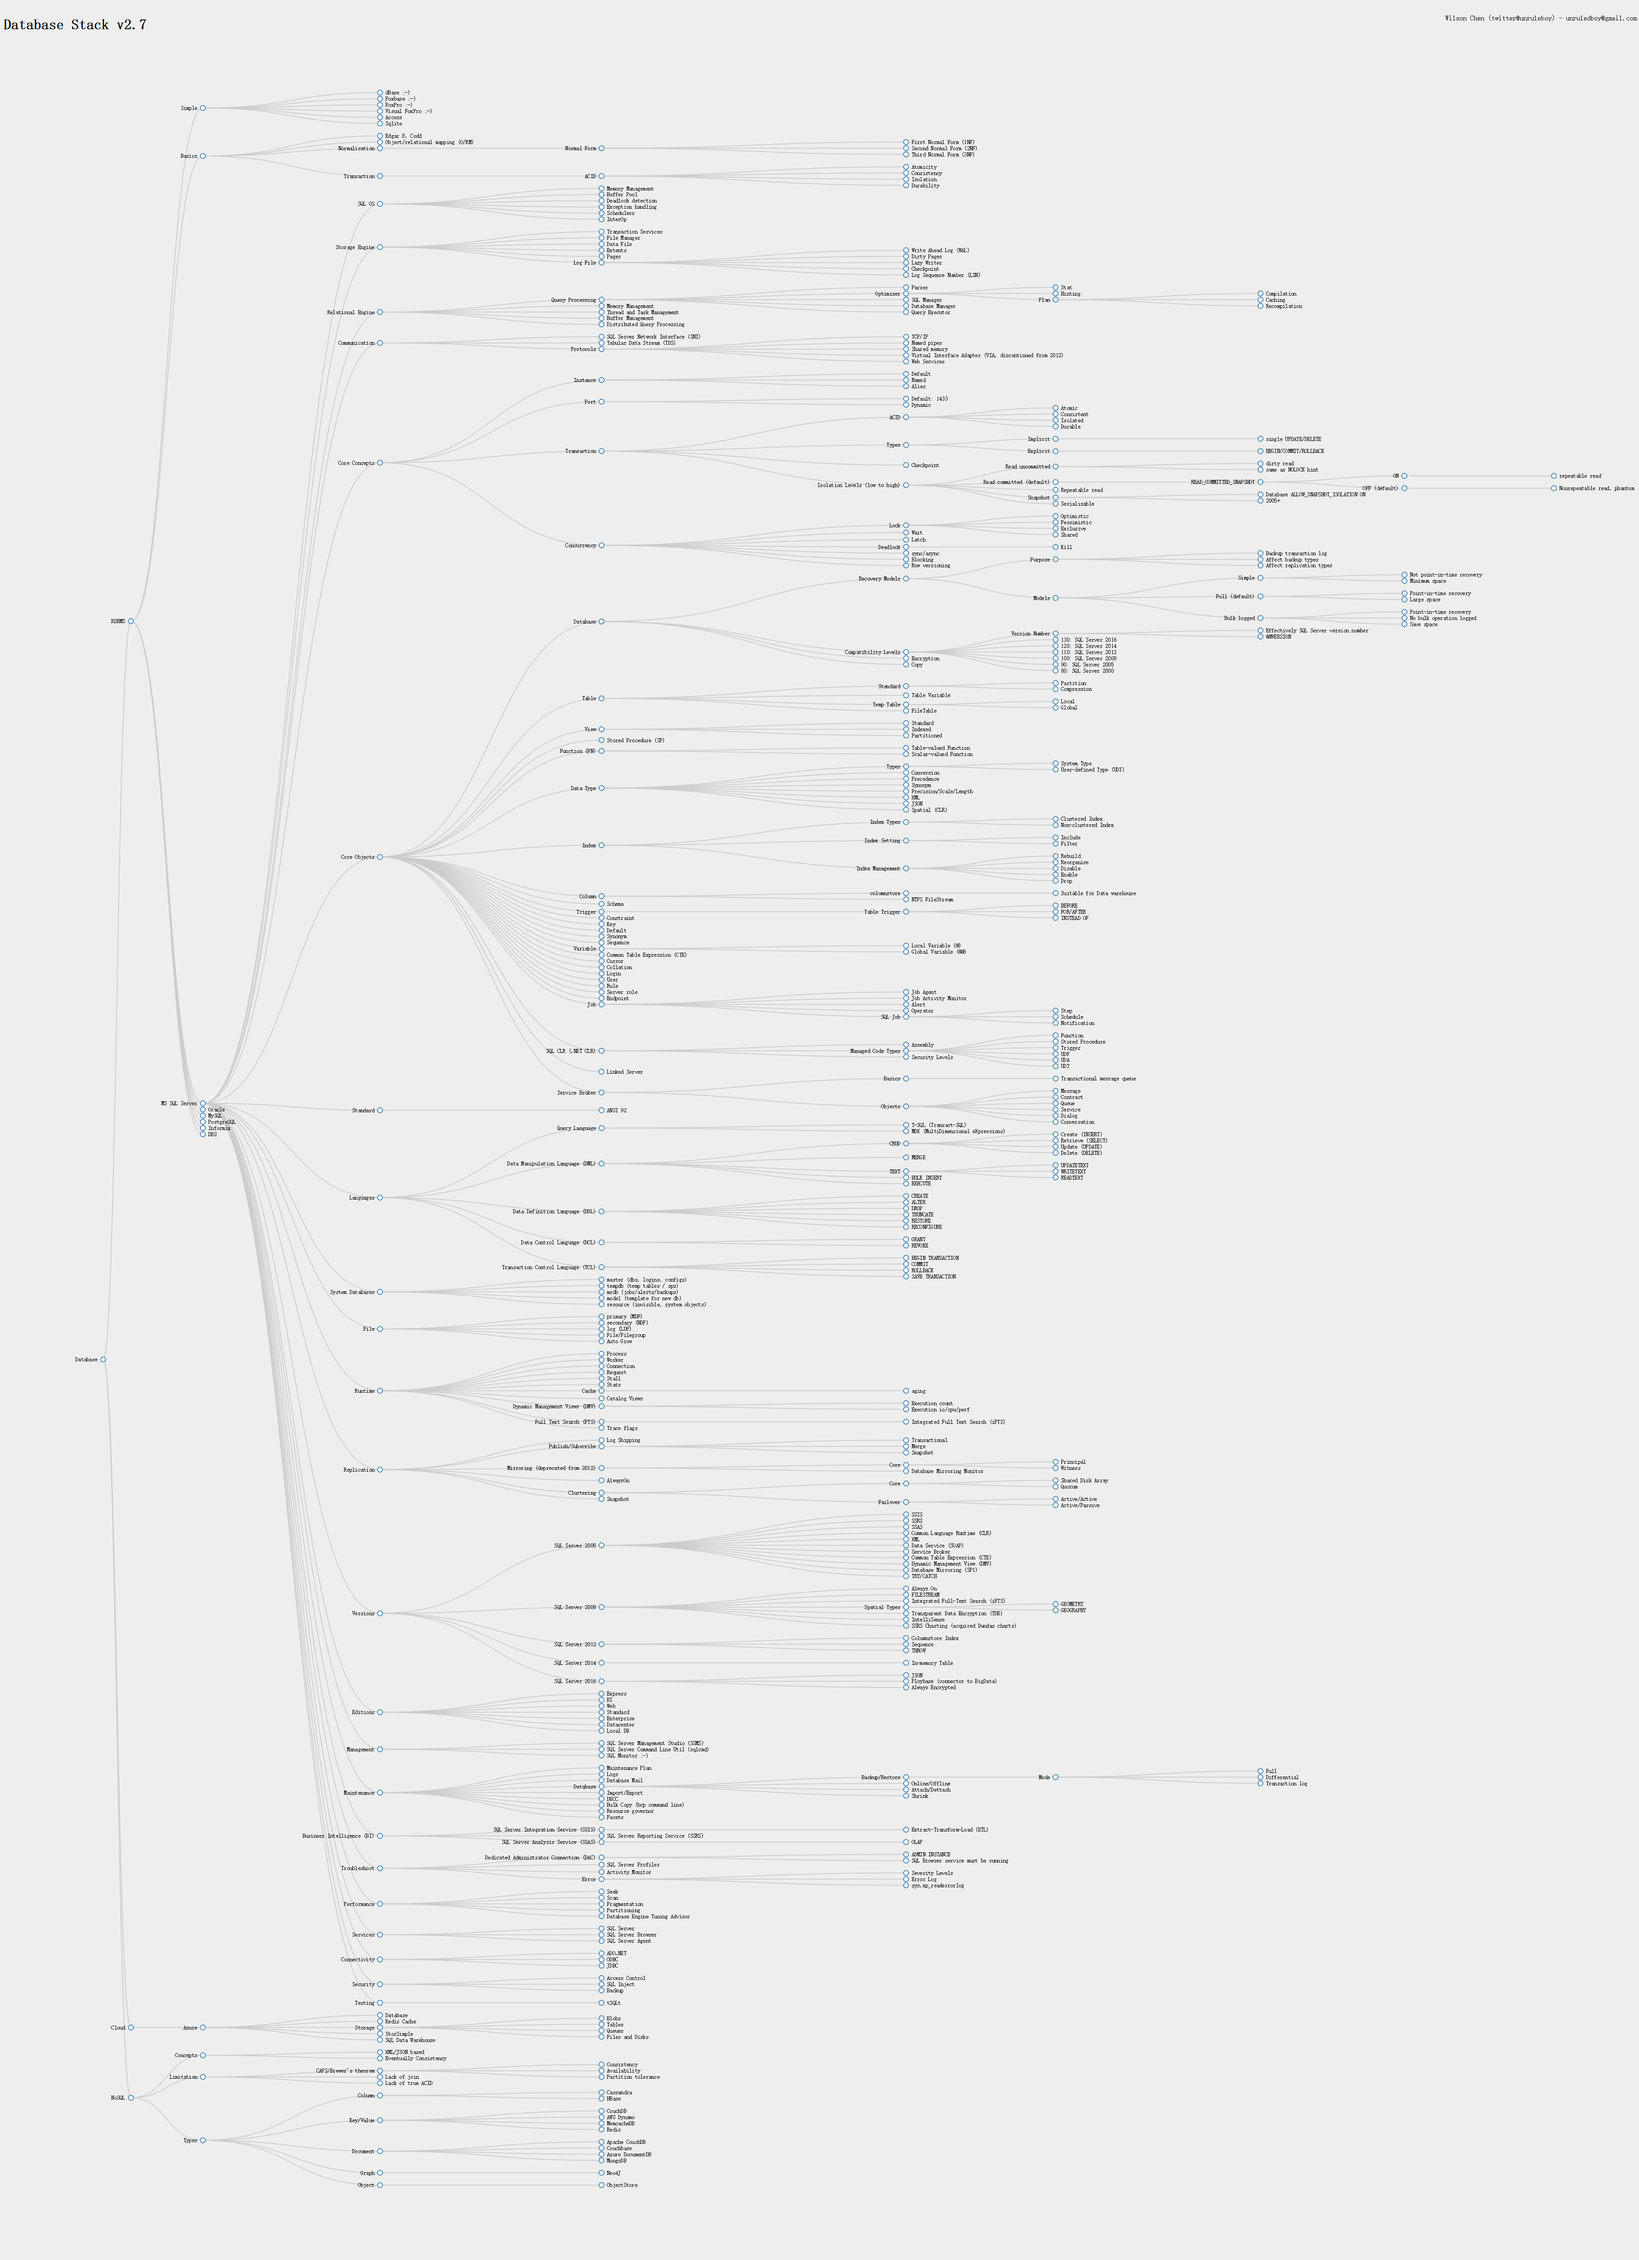
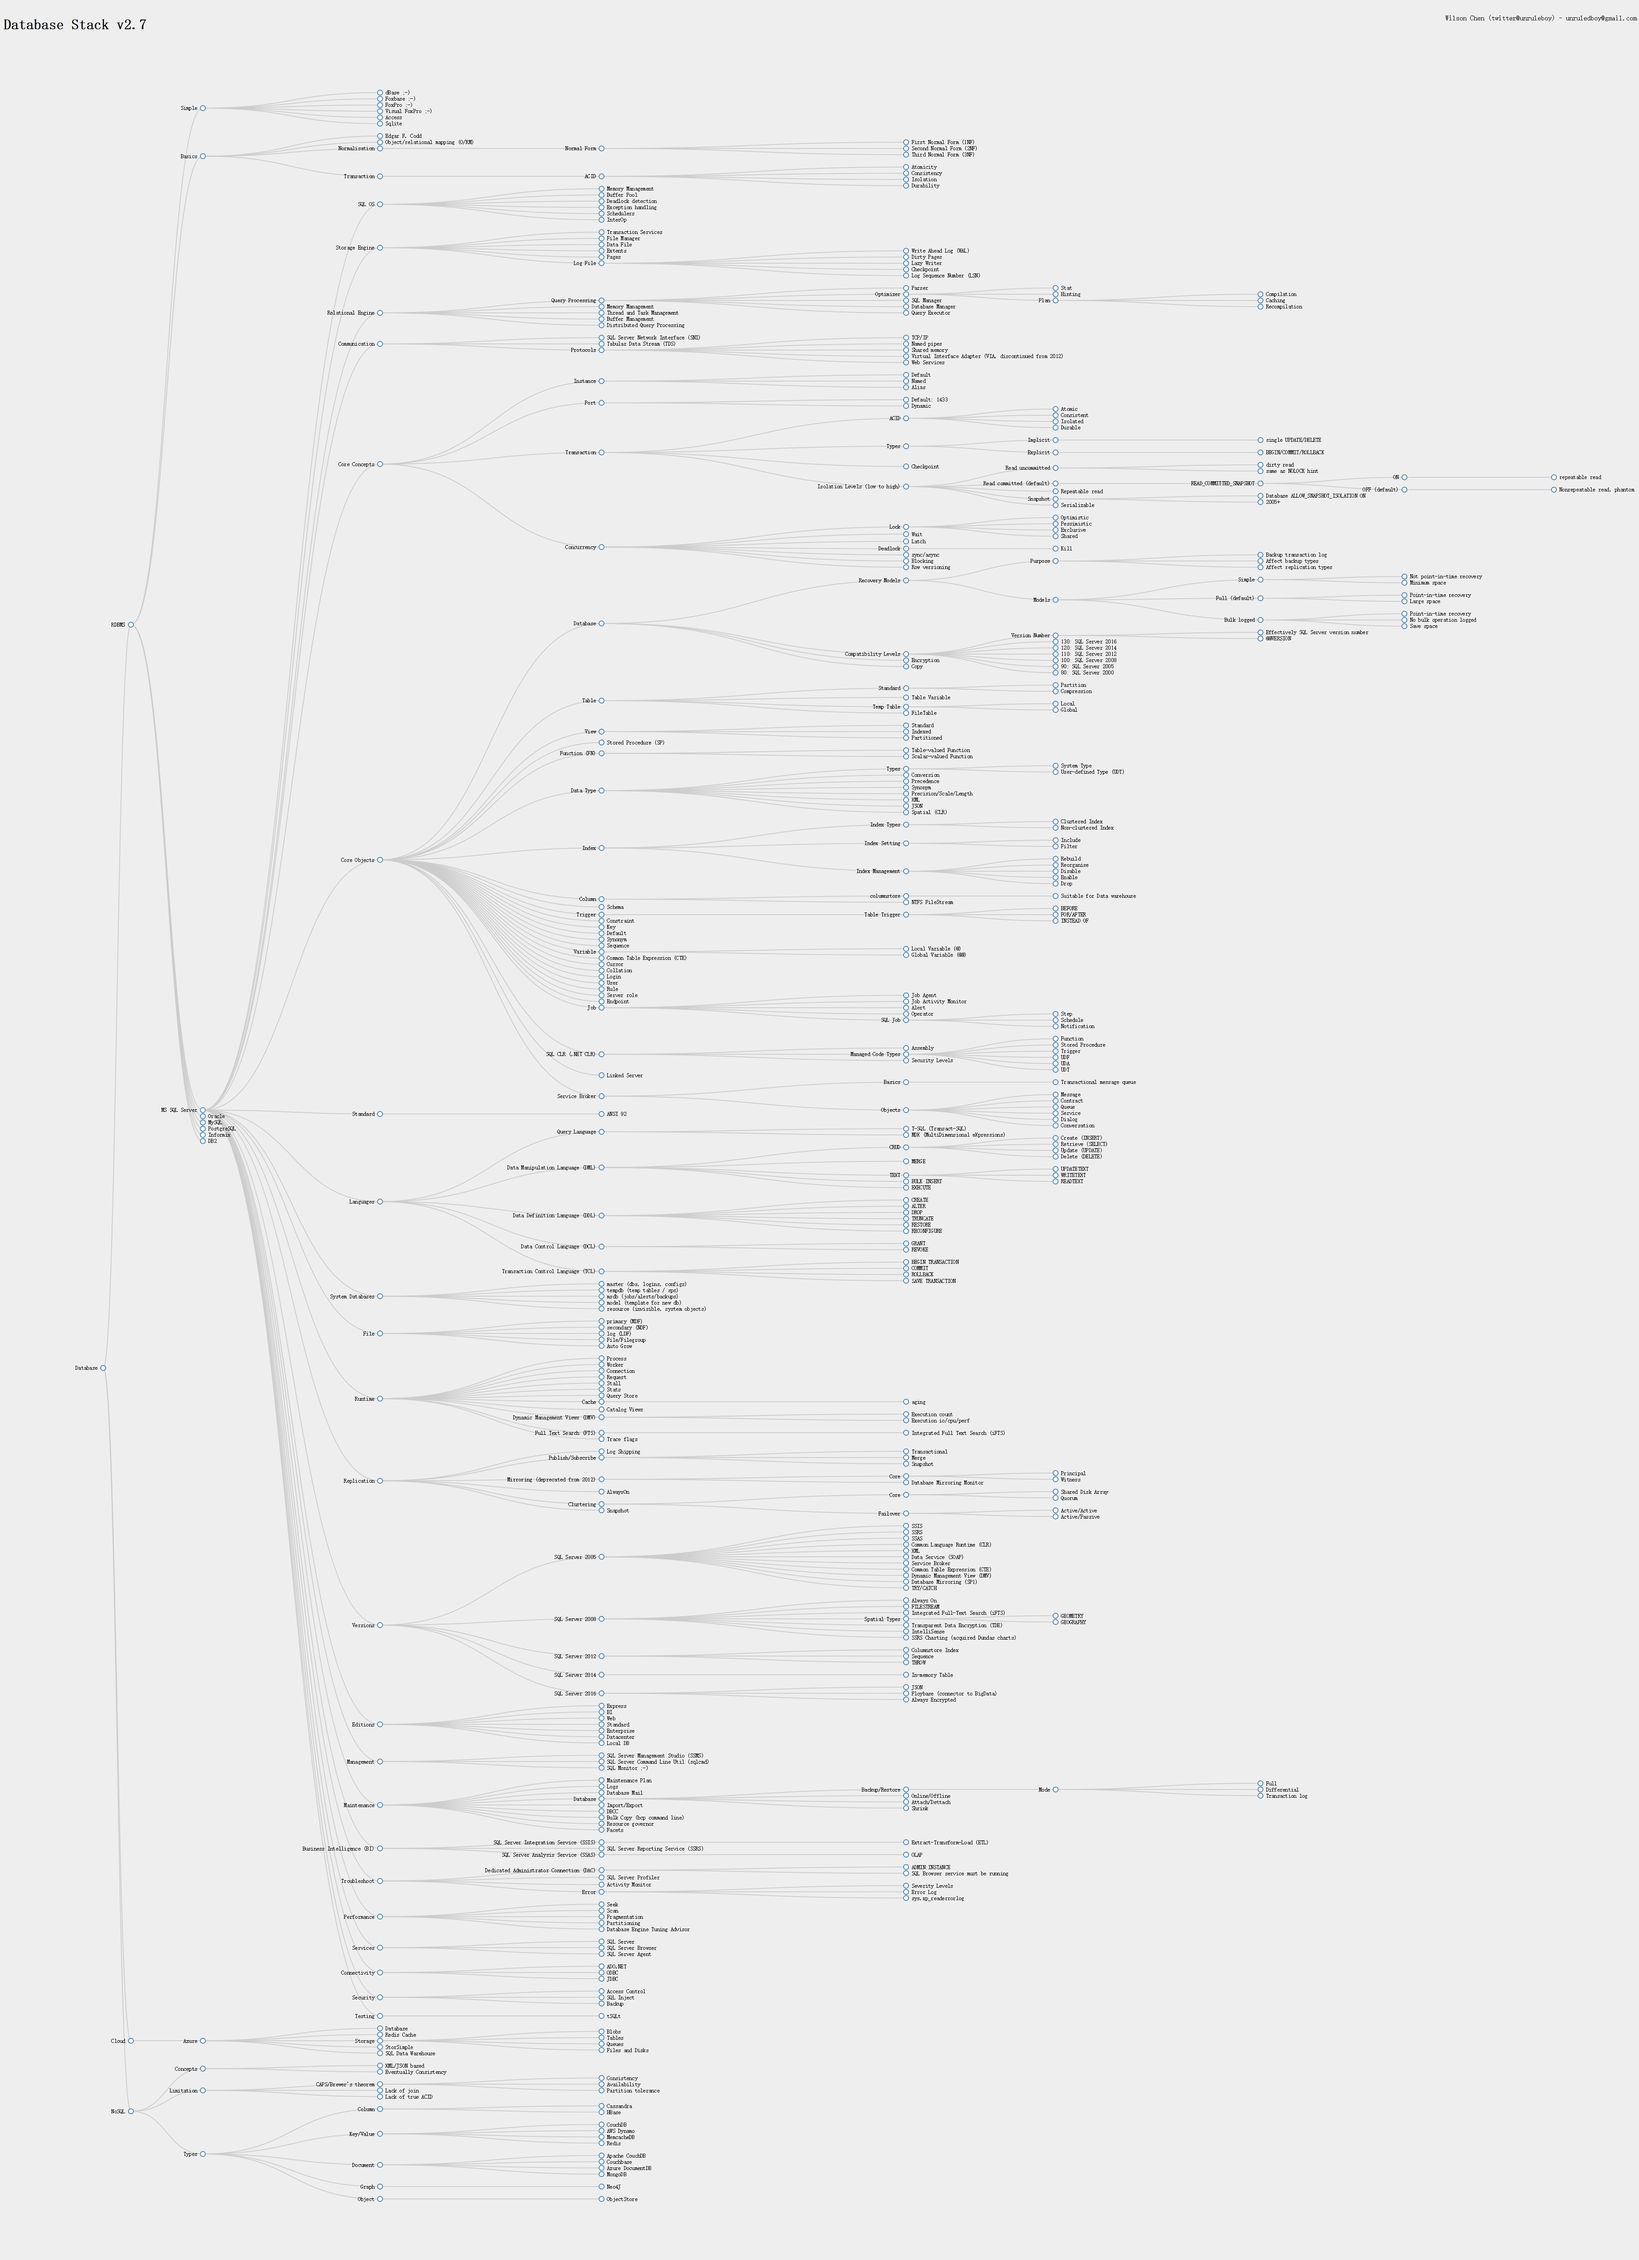
added query store

diff --git a/README.zh-cn.md b/README.zh-cn.md
@@ -337,6 +337,7 @@ https://rawgit.com/unruledboy/DatabaseStack/master/ux/DatabaseStack.htm?locale=z
 				- Request
 				- Stall
 				- Stats
+				- Query Store
 				- Cache
 					- aging
 				- Catalog Views

diff --git a/README.md b/README.md
@@ -334,6 +334,7 @@ https://rawgit.com/unruledboy/DatabaseStack/master/ux/DatabaseStack.htm
 				- Request
 				- Stall
 				- Stats
+				- Query Store
 				- Cache
 					- aging
 				- Catalog Views
